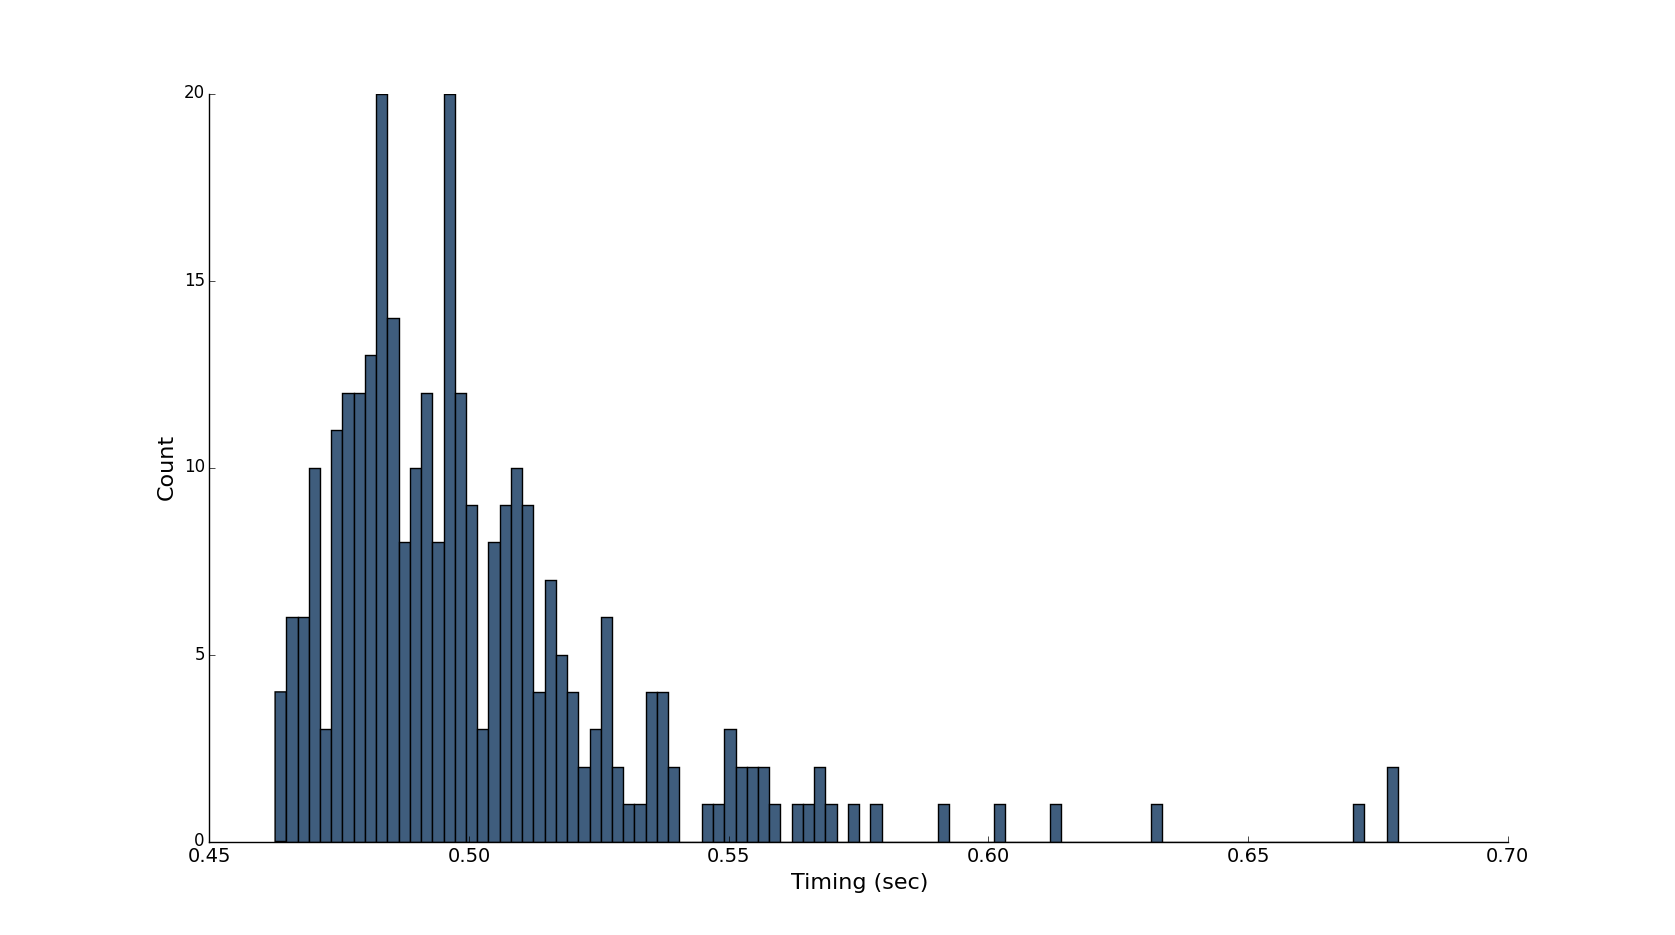
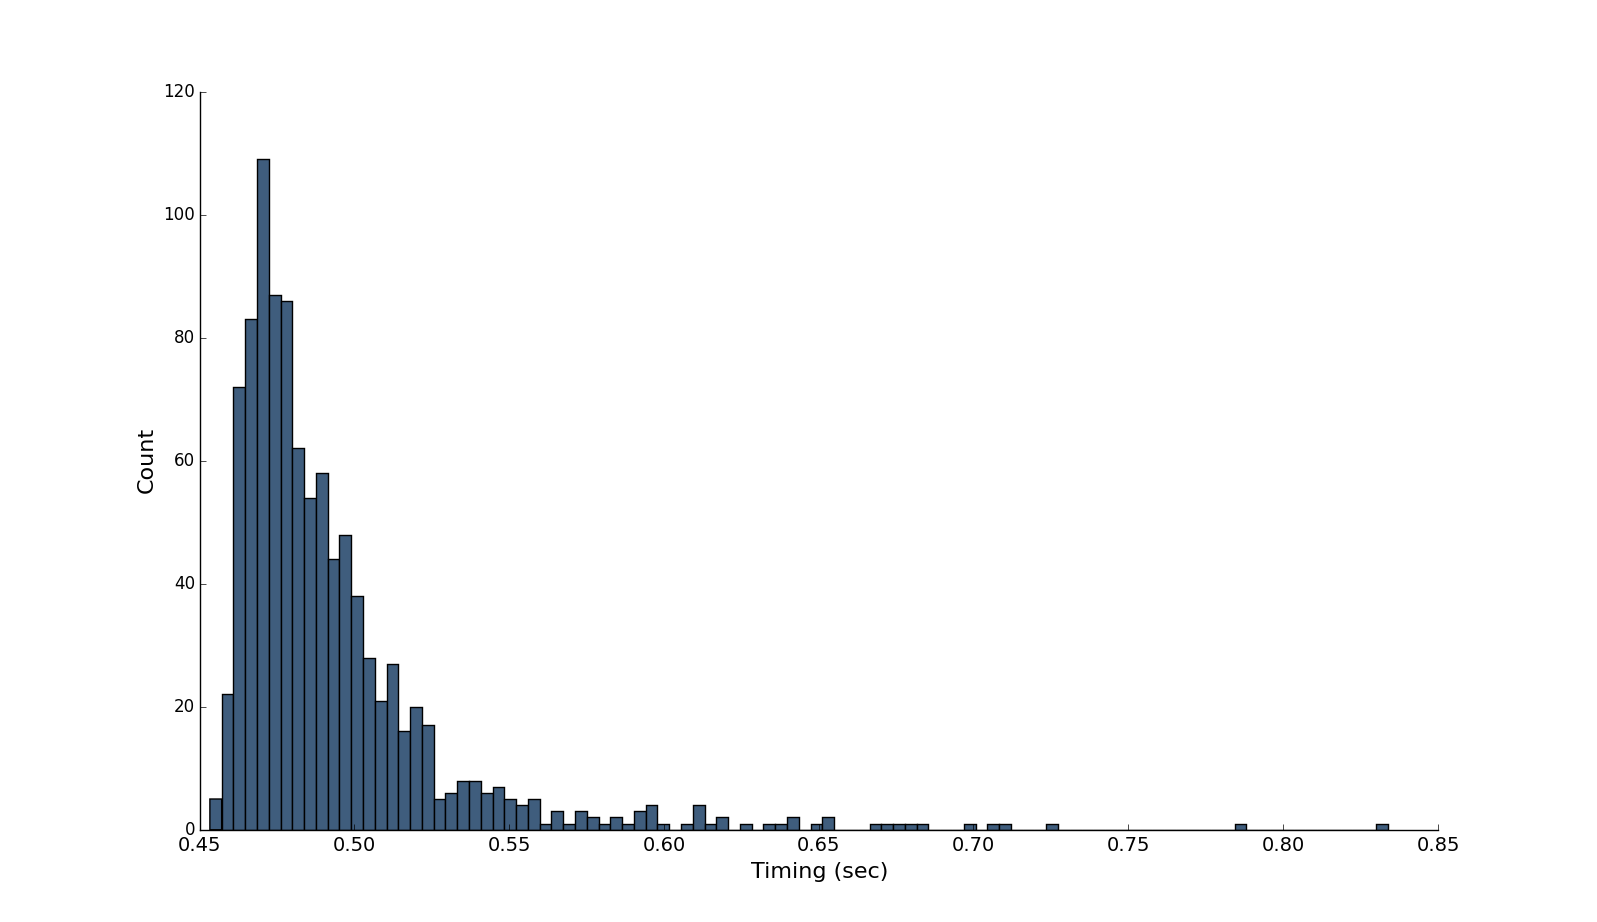
updated markdown

diff --git a/README.md b/README.md
@@ -77,7 +77,7 @@ If the protocol instead is designed using the Niederreiter model, the error vect
 
 This is a slight variation of the above. Instead of observing decryption errors, we measure the timing. There has been some effort in making decoding run in constant time. See [this paper](http://www.win.tue.nl/~tchou/papers/qcbits.pdf).
 
-The decoding we use is probabilistic and susceptible to timing attacks. However, in the PGP-like setting we do not worry too much about this. Below is a graph of timings for 300 decryptions:
+The decoding we use is probabilistic and susceptible to timing attacks. However, in the PGP-like setting we do not worry too much about this. Below is a graph of timings for 1000 decryptions using the same private key (σ = 0.0386, μ = 0.493):
 
 ![protocol receiver](https://raw.githubusercontent.com/grocid/encrypt.life-python/master/timings.png)
 
